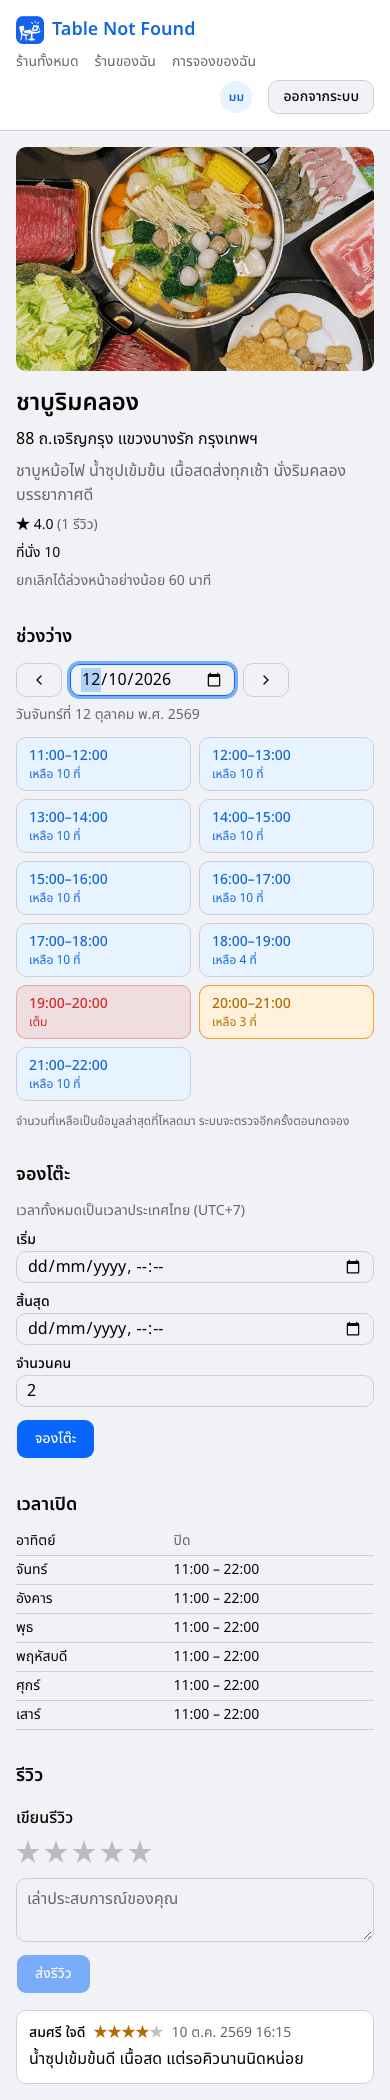
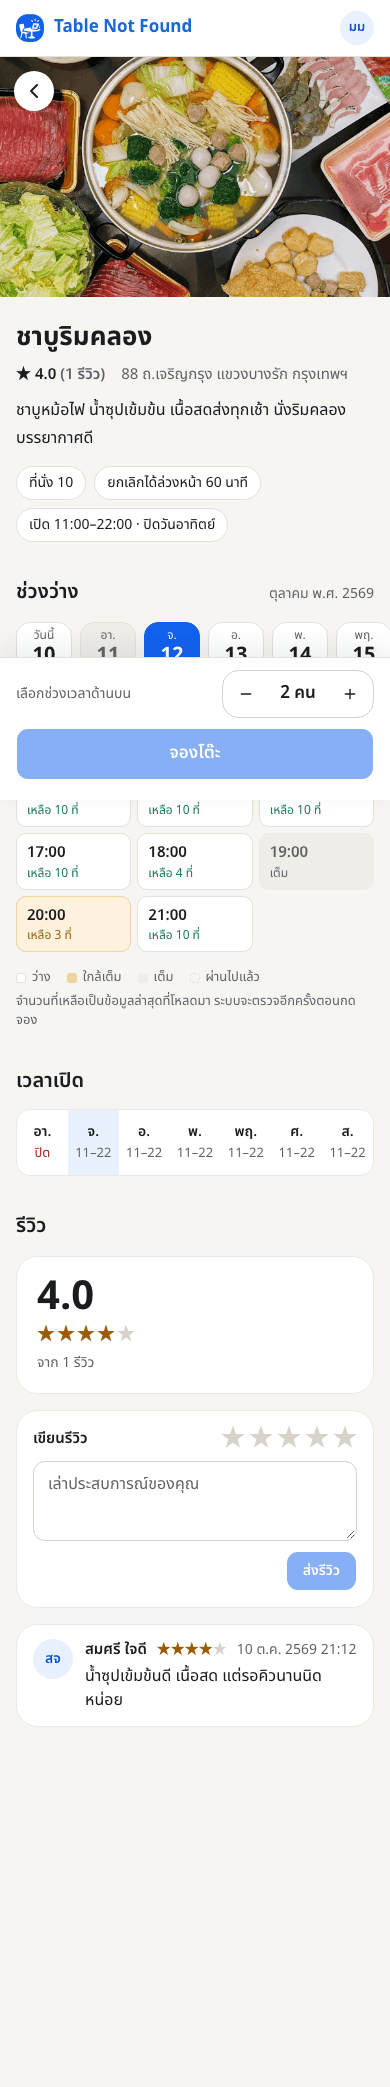
docs(design): DESIGN.md, updated docs and fresh screenshots after the redesign
DESIGN.md describes the design system as built (tokens with measured
contrast, components, page patterns, rules). CLAUDE.md, README and
ARCHITECTURE point to it and drop what no longer holds (typed times, the
duplicated date form). tokens.md is marked as the pre-redesign state, the
Claude Design result is described in docs/design, and the 29 screenshots
are taken again from the redesigned pages.

diff --git a/DESIGN.md b/DESIGN.md
@@ -1,0 +1,95 @@
+# DESIGN.md — Table Not Found
+
+Design system ของเว็บ (`web/`) เขียนจากหน้าที่ทำจริงหลังนำดีไซน์จาก Claude Design เข้ามา **อ่านไฟล์นี้ก่อนแก้ UI ทุกครั้ง**
+ค่าทั้งหมดอยู่ใน [web/app/globals.css](web/app/globals.css) (token) และ [web/components/](web/components/) (component) ถ้าไฟล์นี้ขัดกับโค้ด ให้เชื่อโค้ดแล้วแก้ไฟล์นี้
+ที่มา: [docs/design/claude-design/](docs/design/claude-design/) (ไฟล์ดีไซน์) และ [docs/design/brief.md](docs/design/brief.md) (โจทย์ที่ส่งให้ออกแบบ)
+
+## 1. หลักการ
+
+- **อบอุ่น สะอาด ให้รูปอาหารนำ:** พื้นหลังขาวนวล การ์ดขาวขอบบาง ไม่มีเงาหนัก (เงาใช้เฉพาะของที่ลอย: กล่องจอง เมนู)
+- **สีฟ้าเดียวเป็นแบรนด์** (`--primary`, ตรงกับไอคอนแอป) สีส้มใช้เฉพาะ "ใกล้เต็ม" และดาว สีแดงเฉพาะ "เต็ม/ผิดพลาด/ลบ"
+- **ข้อความไทยล้วน** ยกเว้นชื่อแอป tagline และหัวข้อหน้า 404 (ตัดสินใจโดยเจ้าของงาน)
+- **ตัวเลือกที่กดได้สูงอย่างน้อย 40px** (ปุ่มกลางและช่องกรอก 44px, ปุ่มเล็ก 40px, ปุ่มใหญ่ 52px)
+- **ระบบเป็นผู้ตัดสิน ตารางช่วงว่างเป็นแค่ข้อมูลประกอบ:** UI ไม่เดาว่าจองได้ ส่งไปแล้วแสดงผลที่ server ตอบ (ดู ARCHITECTURE.md "ช่วงว่างรายชั่วโมงเป็นข้อมูลประกอบ")
+- **ใช้ token เท่านั้น** ห้ามฝังค่าสีใน component (ค่าเดียวที่ยกเว้น: เงาและไล่สีรูปที่ใช้ `rgba` ตรง ๆ)
+
+## 2. Token (`web/app/globals.css`)
+
+### สี (โหมดสว่างเท่านั้น: โหมดมืดไม่ได้ออกแบบและไม่มีปุ่มสลับ)
+
+| Token | ค่า | ใช้กับ | คอนทราสต์ที่วัดแล้ว |
+| --- | --- | --- | --- |
+| `--background` | `#f6f5f2` | พื้นหลังหน้า | ตัวหนังสือหลักบนพื้นนี้ 15.7:1 |
+| `--foreground` | `#1a1c20` | ตัวหนังสือหลัก | 17.1:1 บนขาว |
+| `--card` | ขาว | การ์ด หัวเว็บ ช่องกรอก | |
+| `--primary` | `#1262ee` | ปุ่มหลัก วันที่เลือก การ์ดสถิติหลัก | ขาวบนสีนี้ 5.2:1 |
+| `--primary-hover` | `#0e52cc` | ปุ่มหลักตอนชี้ | |
+| `--primary-strong` | `#1568d8` | ลิงก์ ชื่อแบรนด์ บนพื้นอ่อน | 5.3:1 บนขาว, 4.6:1 บน `--primary-subtle` |
+| `--primary-subtle` | `#eaf1fe` | พื้นฟ้าอ่อน (ชิป เมนูปัจจุบัน อวาตาร์ ช่วงที่เลือก) | |
+| `--primary-ink` | `#0f4fc0` | ตัวหนังสือบน `--primary-subtle` | 6.4:1 |
+| `--secondary` / `--muted` | `#eeede8` | skeleton แท็บ ป้าย "ยกเลิกแล้ว" ช่วงที่เต็ม | |
+| `--muted-foreground` | `#5f6168` | ข้อความรอง | 6.2:1 บนขาว, 5.7:1 บนพื้นหลัง |
+| `--accent` | `#d99a3a` | แถบ "ใกล้เต็ม" ในกราฟรายชั่วโมงเท่านั้น (ไม่ใช้เป็นสีตัวหนังสือ) | |
+| `--accent-strong` | `#9a5b00` | ดาว ตัวหนังสือ "ใกล้เต็ม" | 5.4:1 บนขาว, 4.9:1 บน `--accent-subtle` |
+| `--accent-subtle` / `--accent-border` | `#fff1dc` / `#f1d2a0` | พื้นและขอบของช่อง "ใกล้เต็ม" | |
+| `--destructive` | `#d4342c` | **ขอบ** ช่วงที่ชนกับช่วงเต็ม (ไม่ใช้เป็นตัวหนังสือ) | |
+| `--destructive-strong` | `#a3221b` | ตัวหนังสือ ลบ/ยกเลิก/error/ปิด | 7.5:1 บนขาว, 6.6:1 บน `--destructive-subtle` |
+| `--destructive-subtle` / `--destructive-border` | `#fdecea` / `#f2b8b3` | พื้นกล่อง error, ขอบปุ่มในกล่อง error | |
+| `--success` | `#0f7a55` | "เหลือ N ที่" | 5.3:1 บนขาว |
+| `--success-subtle` / `--success-ink` | `#e5f4ee` / `#0b5e42` | กล่อง "จองสำเร็จ" | 6.9:1 |
+| `--border` / `--border-subtle` / `--input` | `#e3e1da` / `#ebe9e3` / `#d6d3cb` | เส้นทั่วไป / ขอบการ์ด / ขอบช่องกรอก (เข้มกว่าขอบการ์ดหนึ่งขั้น) | |
+| `--ring` | `#1262ee` | วงโฟกัส | |
+| `--surface-inverse` (+ `-foreground`, `-muted`, `-border`, `-link`) | `#1a1c20`, ขาว, `#c9cad0`, `#34363c`, `#9fc0ff` | การ์ด "การจองถัดไป" และแถบเชิญเปิดร้าน | ขาว 17.1:1, muted 10.4:1, link 9.3:1 |
+
+ข้อความรองบนพื้นฟ้า (`--primary`) ใช้ `text-primary-foreground/95` (4.9:1) **ห้ามต่ำกว่า 90%** (80% วัดได้ 3.9:1 ไม่ผ่าน) วิธีวัด: คำนวณ WCAG ด้วยสคริปต์ ไม่ประเมินด้วยตา
+
+### ตัวอักษร ระยะ มุม
+
+- ฟอนต์ **Noto Sans Thai** (ผ่าน `next/font` ใน `app/layout.tsx`) ขนาดที่ใช้: 11–13 (ป้ายเล็ก), 14–15 (ข้อความทั่วไป), 16 (เนื้อหา ช่องกรอก), 17–22 (หัวข้อส่วน), 26–34 (หัวหน้า), 40 (หัว landing)
+- เนื้อหากว้างสูงสุด 1024px (`max-w-5xl`) ขอบข้าง 16px หน้า "การจองของฉัน" แคบกว่า (820px)
+- `--radius` = 12px: ช่องกรอก/ปุ่ม 12px (`rounded-lg`), การ์ด 16–20px (`rounded-xl`, `rounded-2xl`, `rounded-[20px]` สำหรับการ์ดเด่น)
+- จุดตัดหน้าจอ: `sm` 640 (การ์ดร้านเปลี่ยนจากแถวเป็นการ์ด), `md` 768 (หัวเว็บเต็ม, กล่องจองข้างหน้าร้าน), `lg` 1024 (โปรไฟล์สองคอลัมน์, ตัวอย่างการ์ดในฟอร์มร้าน)
+
+## 3. Component
+
+| Component | ไฟล์ | หมายเหตุ |
+| --- | --- | --- |
+| `Button` | `components/bases/button.tsx` | variant: default, outline, secondary, ghost, **destructive (ตัวหนังสือแดงล้วน ไม่มีพื้น)**, link; ขนาด small 40 / medium 44 / large 52 |
+| `Input`, `Textarea` | `components/ui/` | สูง 44 ขอบ 1.5px; โฟกัส: ขอบฟ้า + วงฟ้าอ่อน |
+| `Card`, `Badge`, `Skeleton`, `Label` | `components/ui/` | การ์ดขอบ `--border-subtle` |
+| `DropdownMenu*` | `components/ui/dropdown-menu.tsx` | ห่อ Menu ของ `@base-ui/react` (ไม่ได้เพิ่ม dependency) |
+| `SiteHeader`, `BottomNavSpacer` | `components/site-header.tsx` | เดสก์ท็อป: โลโก้ + เมนู pill + ชิปผู้ใช้เปิดเมนู (โปรไฟล์/ออกจากระบบ); มือถือ: แถวเดียว + แถบเมนูล่าง |
+| `EmptyState`, `ErrorAlert` (+ลองอีกครั้ง, `hint`) | `components/` | หน้าว่างเป็นการ์ดขาว วงไอคอนฟ้าอ่อน |
+| `StatCard` (tone primary/plain), `StatPill` | `components/stat-card.tsx` | `role="group"` + ชื่อป้าย อ่านค่าผ่าน `<strong>` |
+| `SegmentedControl` | `components/segmented-control.tsx` | เดสก์ท็อป: แท็บในราง; มือถือ: pill เลื่อนข้าง ใช้เรียงลำดับและกรองสถานะ |
+| `Stepper`, `NumberStepper`, `ChipGroup` | `components/` | − ค่า + (จำนวนคน), ช่องตัวเลขจริงพร้อมปุ่ม (ที่นั่ง), ชิปเลือกหนึ่งอย่าง (ระยะเวลา) |
+| `DayStrip`, `SlotGrid`, `SlotLegend` | `components/` | แถบ 7 วัน และตารางช่วงเวลา 7 สถานะ (ว่าง ใกล้เต็ม เต็ม ผ่านไปแล้ว เลือกแล้ว ในช่วง ชน) |
+| `AvailabilityPicker`, `BookingCard` / `BookingBar` | `components/` | ช่วงว่าง + กล่องจองข้างหน้าร้าน / แถบจองติดล่างบนมือถือ |
+| `ReservationEditor` | `components/reservation-editor.tsx` | แก้การจองในการ์ด ใช้ตัวเลือกชุดเดียวกับตอนจอง |
+| `RestaurantCard`, `RestaurantImage`, `RatingText`, `TopRated` | `components/` | การ์ดร้าน (มือถือเป็นแถว), ภาพเต็มพร้อมอันดับ (เฉพาะจอกว้าง) |
+| `NextBookingCard`, `HoursStrip`, `DayLoadBars` | `components/` | การ์ดเข้ม, แถบเวลาเปิด 7 ช่อง, กราฟที่นั่งรายชั่วโมง |
+| `RestaurantForm`, `OpeningHoursEditor`, `ImageUploader` | `components/` | ฟอร์มเป็นการ์ด, สวิตช์รายวัน (checkbox จริงที่แต่งเป็นสวิตช์), ตัวอย่างการ์ดสด, แถบปุ่มติดล่าง |
+| `ProfileHeader`, `UserAvatar`, `Stars`, `StarPicker`, `StatusBadge`, `Pager`, `Landing`, `ReviewSection` | `components/` | |
+| ตรรกะที่ไม่ผูกกับหน้า (มีเทสต์) | `lib/booking.ts`, `lib/owner-day.ts`, `lib/stats.ts`, `lib/datetime.ts`, `lib/opening-hours.ts`, `lib/availability.ts` | สถานะช่วงเวลา, จัดกลุ่มรายวัน + กราฟรายชั่วโมง, สถิติ, วันที่ไทย, สรุปเวลาเปิด |
+| hook | `hooks/use-slot-picker.ts` (ใช้ร่วม), `use-booking.ts`, `use-me.ts`, `use-async.ts` | |
+
+## 4. Pattern ของหน้า
+
+- **รายการ → หน้าละเอียด:** รายการเก็บ `name` `sort` `page` ใน URL ตัวแบ่งหน้าคงข้อความ "ก่อนหน้า / ถัดไป / หน้า X จาก Y" (ตัดสินใจไม่ใช้เลขอย่างเดียวเพราะข้อความนี้บอกตำแหน่งให้ผู้ใช้และ screen reader)
+- **จอง = ขั้นตอนเดียว:** เลือกวัน (7 วันนับจากวันนี้) → แตะช่วงเวลา → ระยะ 1–3 ชม. → จำนวนคน (ไม่เกินที่นั่ง) → จองโต๊ะ ไม่มีช่องกรอกเวลาอิสระ (กฎเวลาเปิด/ย้อนหลังยังตรวจที่ server และมีเทสต์ Go)
+- **สถานะ 4 แบบทุกรายการ:** กำลังโหลด (Skeleton), ผิดพลาด (ErrorAlert + ลองอีกครั้ง), ว่าง (EmptyState + ทางไปต่อ), มีข้อมูล
+- **หน้าเจ้าของร้าน:** แถวจัดการ (ไม่ใช่การ์ดแบบลูกค้า), การจองจัดกลุ่มรายวันพร้อมกราฟที่นั่ง, ตัวเลขสถิติไม่ขยับตามตัวกรอง (โหลดครั้งเดียว กรองฝั่งเว็บ)
+- **สถิติ:** ใบแรกของแถวเป็นสีฟ้าเต็ม (จุดเริ่มอ่าน) ที่เหลือเรียบ ตัวเลขที่ไม่ควรเด่น (ยกเลิกแล้ว) เป็นสีเทา
+- **มือถือ:** หัวเว็บแถวเดียว + แถบเมนูล่าง (หน้าร้านใช้แถบจองแทน) การ์ดร้านเป็นแถวรูปเล็ก กริดที่มีข้อความบรรทัดเดียวต้องกำหนดคอลัมน์ `grid-cols-1` (ไม่งั้นคอลัมน์ขยายตามข้อความจนล้นจอ)
+
+## 5. กติกาเวลาแก้ UI
+
+1. ใช้ token เท่านั้น สีใหม่ต้องเพิ่มเป็น token ใน `globals.css` พร้อมวัดคอนทราสต์ ≥ 4.5:1 (ตัวหนังสือ)
+2. ไม่เพิ่ม dependency ใช้ `lucide-react`, `@base-ui/react`, shadcn ที่มี
+3. ไม่เปลี่ยนว่าอะไรกดแล้วเกิดอะไร (ลำดับขั้นตอนจอง, สถานะใน URL) และไม่คิดกฎเองฝั่งเว็บ
+4. ข้อความที่ e2e ตรวจอยู่ (`scripts/browser_e2e/run.mjs`) เปลี่ยนแล้วต้องแก้ e2e ในคอมมิตเดียวกัน
+5. ทดสอบหน้าจอ 1200px และ 390px (ต้องไม่มี scroll แนวนอน) ถ่ายภาพใหม่ด้วย `scripts/browser_e2e/design_screens.mjs` (วิธีและการล้างข้อมูลทดลองอยู่ใน [docs/design/README.md](docs/design/README.md))
+
+## 6. ยังไม่ทำ
+
+โหมดมืด · หน้า login ของ Keycloak (ยังเป็นธีมเริ่มต้นและขึ้นชื่อ realm `pea`) · ข้อมูลที่ backend ไม่มี (ประเภทอาหาร ราคา แผนที่ หลายรูป) · แถบเลื่อนวันเกิน 7 วัน

diff --git a/ARCHITECTURE.md b/ARCHITECTURE.md
@@ -401,9 +401,9 @@ Next.js 16 (App Router) + TypeScript + Tailwind v4 + shadcn/ui **ทุกหน
 | route | หน้า | API ที่เรียก |
 | --- | --- | --- |
 | `/` | ยังไม่ล็อกอิน: หน้าแนะนำระบบ (ไม่เรียก API) ล็อกอินแล้ว: ทักทาย ค้นหา การจองถัดไป ร้านคะแนนสูงสุด และรายการร้านเรียง/แบ่งหน้า (12 ต่อหน้า) | `GET /restaurants?name&sort&page&limit`, `GET /restaurants?sort=rating&limit=3`, `GET /reservations`, `GET /users/me` |
-| `/restaurants/[id]` | รายละเอียดร้าน ช่วงว่างรายชั่วโมง จอง รีวิว | `GET /restaurants/{id}`, `GET …/availability?date`, `GET …/reviews`, `POST …/reservations`, `POST …/reviews`, `PUT …/reviews/me` |
+| `/restaurants/[id]` | รายละเอียดร้าน แถบ 7 วัน ช่วงว่างรายชั่วโมง กล่องจอง (เลือกช่วงเวลา 1–3 ชม. + จำนวนคน) รีวิว | `GET /restaurants/{id}`, `GET …/availability?date`, `GET …/reviews`, `POST …/reservations`, `POST …/reviews`, `PUT …/reviews/me` |
 | `/my/profile` | ข้อมูลส่วนตัว (แก้คำแนะนำตัว) สถิติการใช้งาน การจองถัดไป รีวิวของฉัน | `GET /users/me`, `PUT /users/me`, `GET /reservations`, `GET /restaurants?mine=true&limit=1`, `GET /reviews` |
-| `/my/reservations` | การจองของฉัน แก้/ยกเลิก | `GET /reservations`, `PUT /reservations/{id}`, `POST /reservations/{id}/cancel` |
+| `/my/reservations` | การจองของฉัน (กำลังจะถึง/ผ่านมา/ยกเลิก) แก้ในการ์ดด้วยตัวเลือกชุดเดียวกับตอนจอง และยกเลิก | `GET /reservations` (restaurant มี `imageUrl`, `cancellationLeadMinutes`), `GET /restaurants/{id}`, `GET …/availability?date`, `PUT /reservations/{id}`, `POST /reservations/{id}/cancel` |
 | `/my/restaurants` | ร้านของฉัน สรุปจำนวนร้าน/รีวิว/คะแนน ลบร้าน | `GET /restaurants?mine=true`, `DELETE /restaurants/{id}` |
 | `/my/restaurants/new` | สร้างร้าน | `POST /restaurants` |
 | `/my/restaurants/[id]/edit` | แก้ร้านและรูป | `GET/PUT /restaurants/{id}`, `POST/DELETE …/image` |
@@ -415,7 +415,7 @@ Next.js 16 (App Router) + TypeScript + Tailwind v4 + shadcn/ui **ทุกหน
 ```mermaid
 flowchart TB
     app["app/<br/>หน้าและ layout (page.tsx)"] --> comp["components/<br/>ฟอร์ม การ์ด AuthGuard SiteHeader ..."]
-    app --> hooks["hooks/<br/>useCredential, useAsync"]
+    app --> hooks["hooks/<br/>useCredential, useAsync, useSlotPicker, useBooking"]
     comp --> hooks
     comp --> lib["lib/<br/>ตรรกะที่ไม่ผูกกับหน้า (มีเทสต์)"]
     hooks --> lib
@@ -452,11 +452,11 @@ flowchart TB
 
 ### เวลา ข้อความ และธีม
 
-- **เวลา** (`lib/datetime.ts`): ค่าจาก `<input type="datetime-local">` คือเวลาไทย `toApiDateTime` ต่อ `:00+07:00` ด้วยสตริง (ไม่ใช้ `Date` ท้องถิ่น) `fromApiDateTime` แปลงกลับเป็นเวลาไทยด้วยการบวก 7 ชั่วโมง
+- **เวลา** (`lib/datetime.ts`): ผู้ใช้ไม่พิมพ์เวลาเอง การจองส่ง `startAt`/`endAt` ที่ได้จากช่วงเวลา (slot) ของ API (เป็น `+07:00` อยู่แล้ว) ส่วนวัน/นาฬิกาที่แสดงคำนวณจากเวลาไทยด้วยการบวก 7 ชั่วโมงหรือ `Intl` เขตเวลา `UTC`/`Asia/Bangkok` (`bangkokDateKey`, `thaiDateParts`, `bangkokClock`)
   `formatThaiDateTime` ใช้ `Intl` เขตเวลา `Asia/Bangkok` ทั้งหมดจึงไม่ขึ้นกับเขตเวลาของ browser (เทสต์รันด้วย `TZ=America/New_York` เพื่อจับโค้ดที่พึ่งเขตเวลาเครื่อง)
 - **ข้อความผิดพลาด** (`lib/errors.ts`): `messageForError` แปลง `code` เป็นข้อความไทย ถ้าไม่มี `code` ใช้ตาม status และ `isNotFound` ใช้แยก 404
 - **เวลาเปิดรายวัน** (`lib/opening-hours.ts`): แปลงระหว่างรายการจาก API กับแถว 7 วันของฟอร์ม ตรวจก่อนส่ง (ต้องเปิดอย่างน้อย 1 วัน, เวลาครบ, ปิดหลังเปิด); weekday 0 (อาทิตย์) ต้องไม่หายเพราะเป็นค่า falsy
-- **ธีม:** token สี (โทนฟ้าแบบ Facebook) อยู่ใน `web/app/globals.css` (`--primary`, `--primary-strong` สำหรับตัวหนังสือสีฟ้า, `--primary-subtle`) และฟอนต์ Noto Sans Thai ใน `app/layout.tsx`;
+- **ธีม:** ระบบออกแบบอยู่ใน [DESIGN.md](DESIGN.md) token สีอยู่ใน `web/app/globals.css` (พื้นขาวนวล, ฟ้า `--primary` ตรงไอคอนแอป, `--primary-strong` สำหรับตัวหนังสือสีฟ้า, `--primary-subtle`) และฟอนต์ Noto Sans Thai ใน `app/layout.tsx`;
   ปุ่มใช้ `components/bases/button.tsx` ส่วน primitive อื่นมาจาก shadcn ใน `components/ui/`
 
 ที่มา: `web/lib/*`, `web/hooks/*`, `web/app/*`, `web/components/*`
@@ -548,7 +548,7 @@ compose ปฏิเสธการสตาร์ทถ้าขาดตัว
 - **ไม่มีอีเมลแจ้งเตือน**, ไม่มี dark mode (token โหมดมืดยังเป็นของ template และไม่มีสวิตช์), ไม่มี role/แอดมิน
 - **`APP_PORT` ไม่ถูกใช้:** `config` ตรวจค่านี้แต่ `cmd/api/main.go` ฟังที่ `:8080` ตายตัว และตั้งโหมด release หลังสร้าง router (พบตอนเขียนเอกสารนี้ ยังไม่ได้แก้)
 - **Safari ล็อกอินไม่ได้** ผ่าน HTTP (cookie `Secure`)
-- ฝั่งเว็บ: ฟอร์มวันที่ของการจองกับการแก้การจองเป็นโค้ดซ้ำสองที่, `now` ในหน้าการจองของฉันค้างตอน mount (ปุ่มแก้/ยกเลิกอาจแสดงต่ออีกพักหลังการจองเริ่ม แต่ server ปฏิเสธอยู่ดี)
+- ฝั่งเว็บ: `now` ในหน้าการจองของฉันค้างตอน mount (ปุ่มแก้/ยกเลิกอาจแสดงต่ออีกพักหลังการจองเริ่ม แต่ server ปฏิเสธอยู่ดี)
 
 ## 13. แผนที่โค้ด
 

diff --git a/CLAUDE.md b/CLAUDE.md
@@ -51,13 +51,13 @@ node scripts/browser_e2e/run.mjs             # real Chrome walk-through (`cd scr
 - **Booking correctness is the core invariant.** Every create/change/cancel of a reservation (and restaurant delete) runs in `reservation.repository.InTx`, which takes `SELECT … FOR UPDATE` on the restaurant row *before* reading hours/capacity. Capacity uses `PeakGuests` (most guests present at one moment over half-open `[start, end)` intervals, not a sum). Opening hours are judged in `Asia/Bangkok` whatever offset the client sends. Do not add a reservation write path that skips `InTx`. `GET /restaurants/{id}/availability` reuses `PeakGuests` but reads **without** the lock: it is a display snapshot, never a basis for accepting a booking.
 - **Schema** changes only through goose migrations in `api/migrations`; the `CHECK`/`UNIQUE` constraints repeat the Go rules as a last line of defence (e.g. duplicate reviews are caught by the unique key, error `23505`, not by check-then-insert). The test harness runs the `Up` part of every migration file.
 - **Pictures** are files on a volume (`UPLOAD_DIR`), not DB rows: type is sniffed from the bytes, the server picks the name, and they are served publicly under `/api/v1/uploads/…` (an `<img>` cannot send a Bearer token). `seed.sql` only sets `image_url`; `scripts/seed_images.sh` copies the files.
-- **Frontend:** every page is a client component. All HTTP goes through `apiFetch` (`web/lib/api.ts`): Bearer header, 204 without `json()`, `FormData` without a `Content-Type`, and on 401 a **single-flight** refresh (the refresh token rotates) then one retry. Import direction is `auth.ts → api.ts → auth-store.ts → types.ts`, never backwards. Times in the UI and in requests are Bangkok time (`toApiDateTime` appends `+07:00`), independent of the browser's zone. The restaurant list keeps `name`/`sort`/`page` in the URL.
+- **Frontend:** every page is a client component. All HTTP goes through `apiFetch` (`web/lib/api.ts`): Bearer header, 204 without `json()`, `FormData` without a `Content-Type`, and on 401 a **single-flight** refresh (the refresh token rotates) then one retry. Import direction is `auth.ts → api.ts → auth-store.ts → types.ts`, never backwards. Times are Bangkok time whatever the browser's zone: a booking sends the `startAt`/`endAt` of the API's hourly slots (the person picks a day, an hour, 1-3 hours and a party size; there is no typed time), and dates and clocks are formatted from Bangkok (`web/lib/datetime.ts`). The restaurant list keeps `name`/`sort`/`page` in the URL.
 
 ## Conventions that are easy to get wrong
 
 - **API contract:** `api/docs/API.md` is the hand-written contract the frontend follows; change it in the same commit as any behaviour change. `docs/initial/` (spec, plans, course reference docs) is historical and may disagree with the code: trust the code and `api/docs/*`.
 - **Next 16 is not the Next you know** (`params` is a Promise, `useSearchParams` needs `<Suspense>`, etc.). Read the relevant guide in `web/node_modules/next/dist/docs/` and `web/NOTES.md` before writing routing/data-fetching code (see `web/AGENTS.md`).
-- **Web style:** `@/…` imports for project files, named exports for components, `Button` from `@/components/bases/button`, shadcn primitives in `components/ui/`, Thai UI strings, and design tokens only (no hard-coded colours; use `text-primary-strong` for blue text and `bg-primary-subtle` for soft fills; tokens live in `web/app/globals.css`).
+- **Web style:** read `DESIGN.md` (tokens with measured contrast, components, page patterns, rules) before changing UI. `@/…` imports for project files, named exports for components, `Button` from `@/components/bases/button`, shadcn primitives in `components/ui/`, Thai UI strings, and design tokens only (no hard-coded colours; use `text-primary-strong` for blue text and `bg-primary-subtle` for soft fills; tokens live in `web/app/globals.css`).
 - **Tests:** add behaviour tests at the HTTP seam in `api/internal/apitest` (real Postgres, no repository mocks); concurrency tests must really overlap (`warmPool` + `runTogether`). Go mocks are generated with `mockery` only (`api/.mockery.yml`). Web tests are limited to pure logic in `web/lib`.
 - Run build, vet, lint and tests as separate commands (a pipe hides the exit code).
 

diff --git a/docs/design/README.md b/docs/design/README.md
@@ -6,7 +6,8 @@
 | --- | --- |
 | [brief.md](brief.md) | **เริ่มที่นี่** โจทย์ ทิศทาง รายการหน้า ข้อมูลที่มีจริง ข้อจำกัด และสิ่งที่อยากได้กลับมา |
 | [tokens.md](tokens.md) | สี ตัวอักษร ระยะ และ component ที่มีอยู่แล้ว (ค่าจริงจากโค้ด) |
-| `screens/` | ภาพหน้าจอปัจจุบัน 29 ภาพ: เดสก์ท็อป 1200px (22 ภาพ) และมือถือ 390px (7 ภาพ ชื่อขึ้นต้น `m`) รวมสถานะ โหลด/ผิดพลาด/ว่าง/เต็ม/ปิด |
+| `screens/` | ภาพหน้าจอ 29 ภาพ (ถ่ายใหม่หลังนำดีไซน์เข้าเว็บแล้ว): เดสก์ท็อป 1200px (22 ภาพ) และมือถือ 390px (7 ภาพ ชื่อขึ้นต้น `m`) รวมสถานะ โหลด/ผิดพลาด/ว่าง/เต็ม/ปิด |
+| [claude-design/](claude-design/) | **ผลที่ได้กลับจาก Claude Design:** `Table Not Found Redesign.dc.html` (เปิดในเบราว์เซอร์ดูได้), `support.js` และ `assets/` (ส่วน `uploads/` ที่ติดมากับไฟล์ดาวน์โหลดคือชุดส่งของเราเอง ถูก ignore) ดีไซน์ที่นำเข้าเว็บแล้วอธิบายใน [DESIGN.md](../../DESIGN.md) |
 | `assets/` | ไอคอนแอป 512px, โลโก้หัวเว็บ 96px และรูปร้านตัวอย่าง 5 รูป (เครดิตช่างภาพอยู่ใน `restaurant-photos/CREDITS.md`) |
 
 ## วิธีส่ง

diff --git a/docs/design/tokens.md b/docs/design/tokens.md
@@ -1,5 +1,7 @@
 # Design tokens และ component ที่มีอยู่ตอนนี้
 
+> **สถานะก่อนออกแบบใหม่ (เก็บไว้เป็นส่วนของชุดส่งดีไซน์)** ค่าและ component ปัจจุบันอยู่ใน [DESIGN.md](../../DESIGN.md) ที่ root ไฟล์นี้อาจไม่ตรงกับโค้ดแล้ว
+
 ค่าทั้งหมดมาจากโค้ดจริง (`web/app/globals.css`, `web/components/`) ถ้าจะเสนอค่าใหม่ ให้ใช้ **ชื่อ token เดิม** เพื่อให้เอาไปแทนใน `globals.css` ได้ตรง ๆ
 
 ## สี (โหมดสว่าง ซึ่งเป็นโหมดเดียวที่ใช้จริง)
